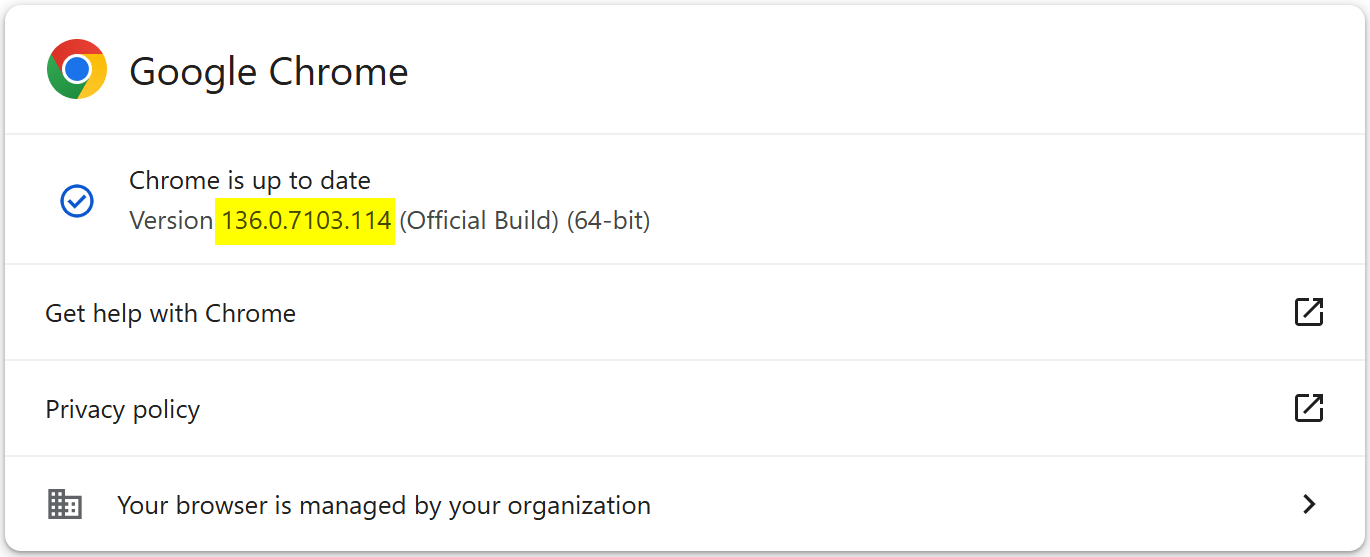
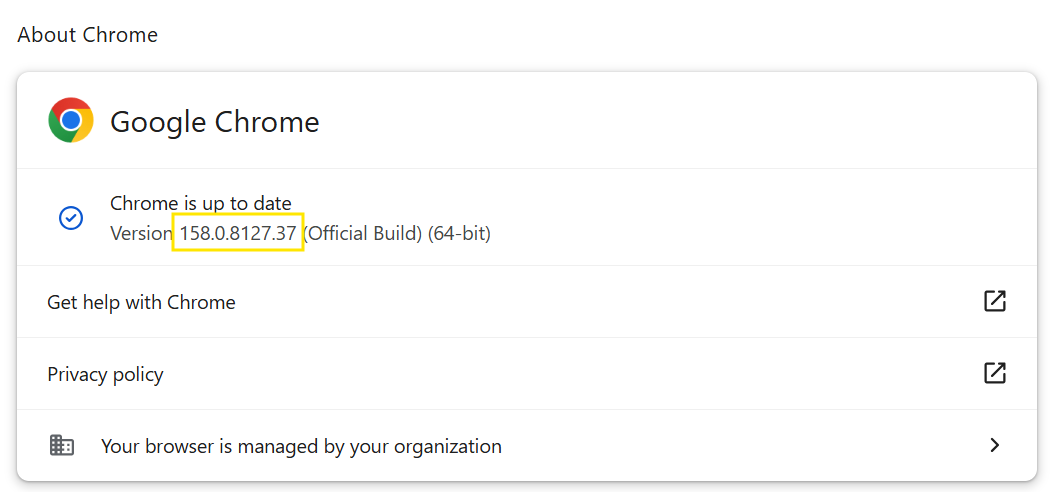
Update dependencies and screenshots

Changed region(s): [[0.0, 0.0305, 1.0, 1.0]]

diff --git a/src/test/java/selenium/sample/extra/extra1.java b/src/test/java/selenium/sample/extra/extra1.java
@@ -67,10 +67,10 @@ public class extra1 {
         String originalText = "This is a text box";
         WebElement getTextBox = driver.findElement(By.name("vfb-5"));
         assertEquals(base_url, driver.getCurrentUrl());
-        assertEquals(getTextBox.getDomProperty("value"), originalText);
+        assertEquals(originalText, getTextBox.getDomProperty("value"));
         getTextBox.sendKeys(" asd");
-        assertEquals(getTextBox.getDomProperty("value"), originalText + " asd");
+        assertEquals(originalText + " asd", getTextBox.getDomProperty("value"));
         driver.navigate().refresh();
-        assertEquals(driver.findElement(By.name("vfb-5")).getDomProperty("value"), originalText);
+        assertEquals(originalText, driver.findElement(By.name("vfb-5")).getDomProperty("value"));
     }
 }

diff --git a/src/test/java/selenium/sample/extra/extra2.java b/src/test/java/selenium/sample/extra/extra2.java
@@ -24,7 +24,7 @@ public class extra2 {
         WebElement h1 = driver.findElement(By.xpath("//h1"));
         assertEquals("block", h1.getCssValue("display"));
         assertEquals(Color.fromString("rgba(0, 0, 0, 1)"), Color.fromString(h1.getCssValue("color")));
-        assertEquals(driver.findElement(By.tagName("h1")).getText(), "Lorem ipsum");
+        assertEquals("Lorem ipsum", driver.findElement(By.tagName("h1")).getText());
         System.out.println(driver.findElement(By.tagName("h1")).getCssValue("color"));
         System.out.println(driver.findElement(By.tagName("h1")).getCssValue("background-color"));
     }
